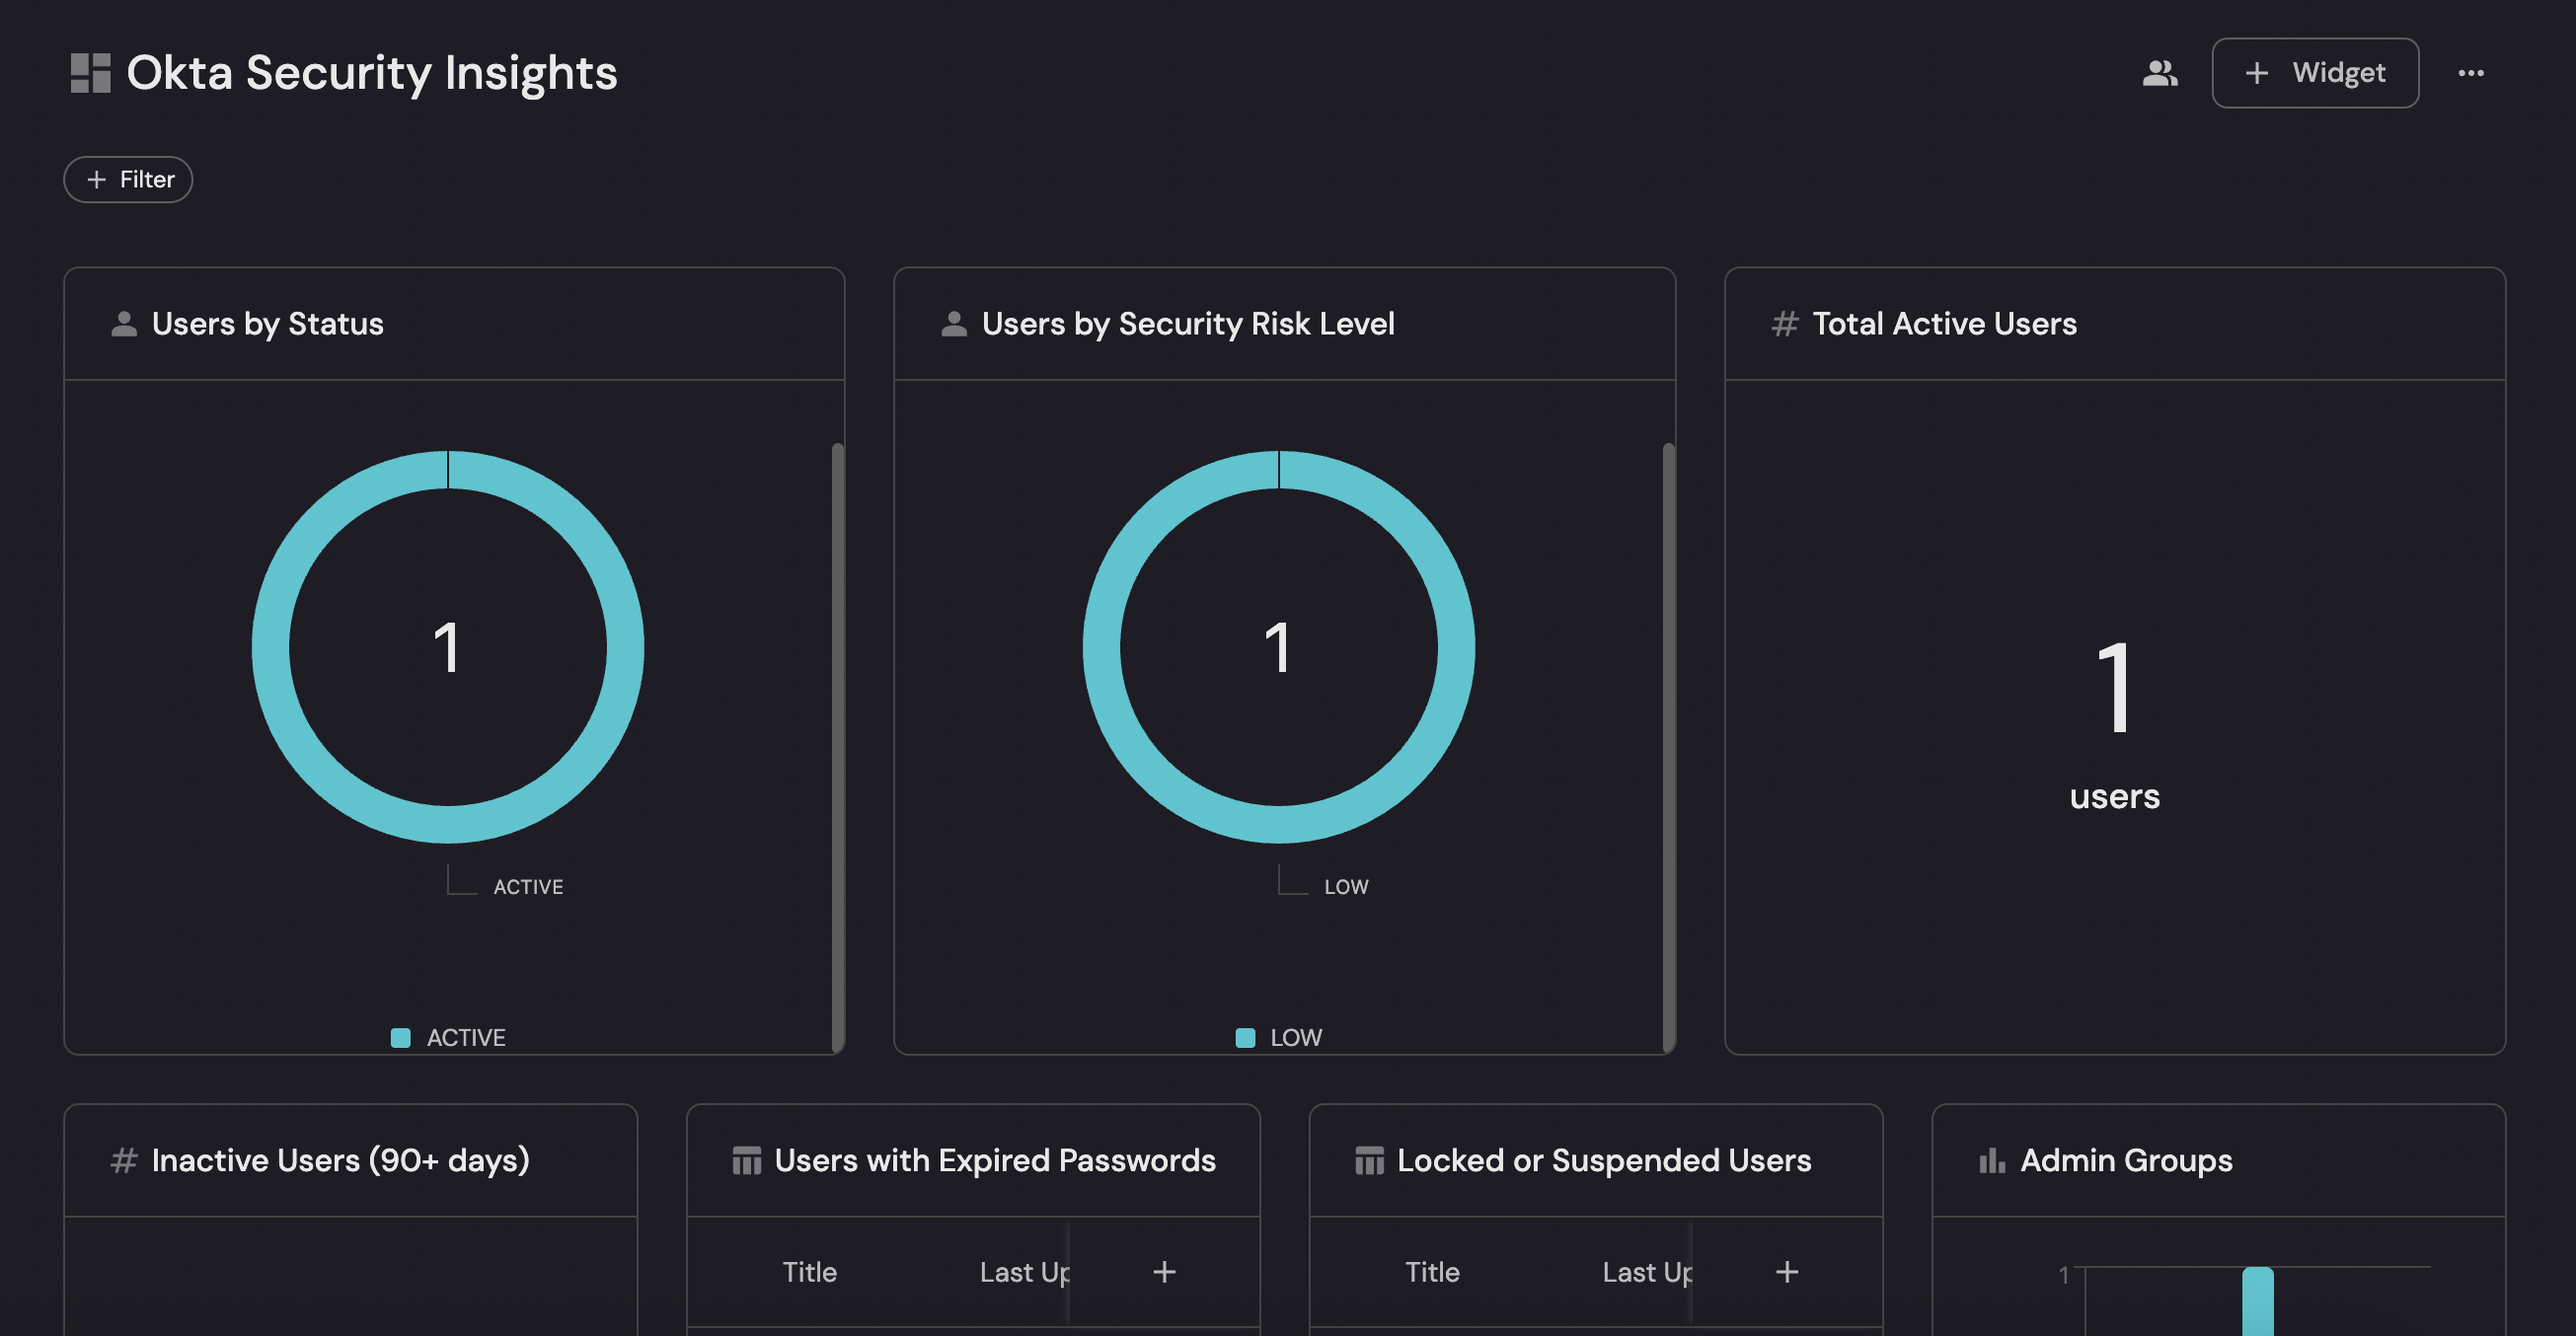
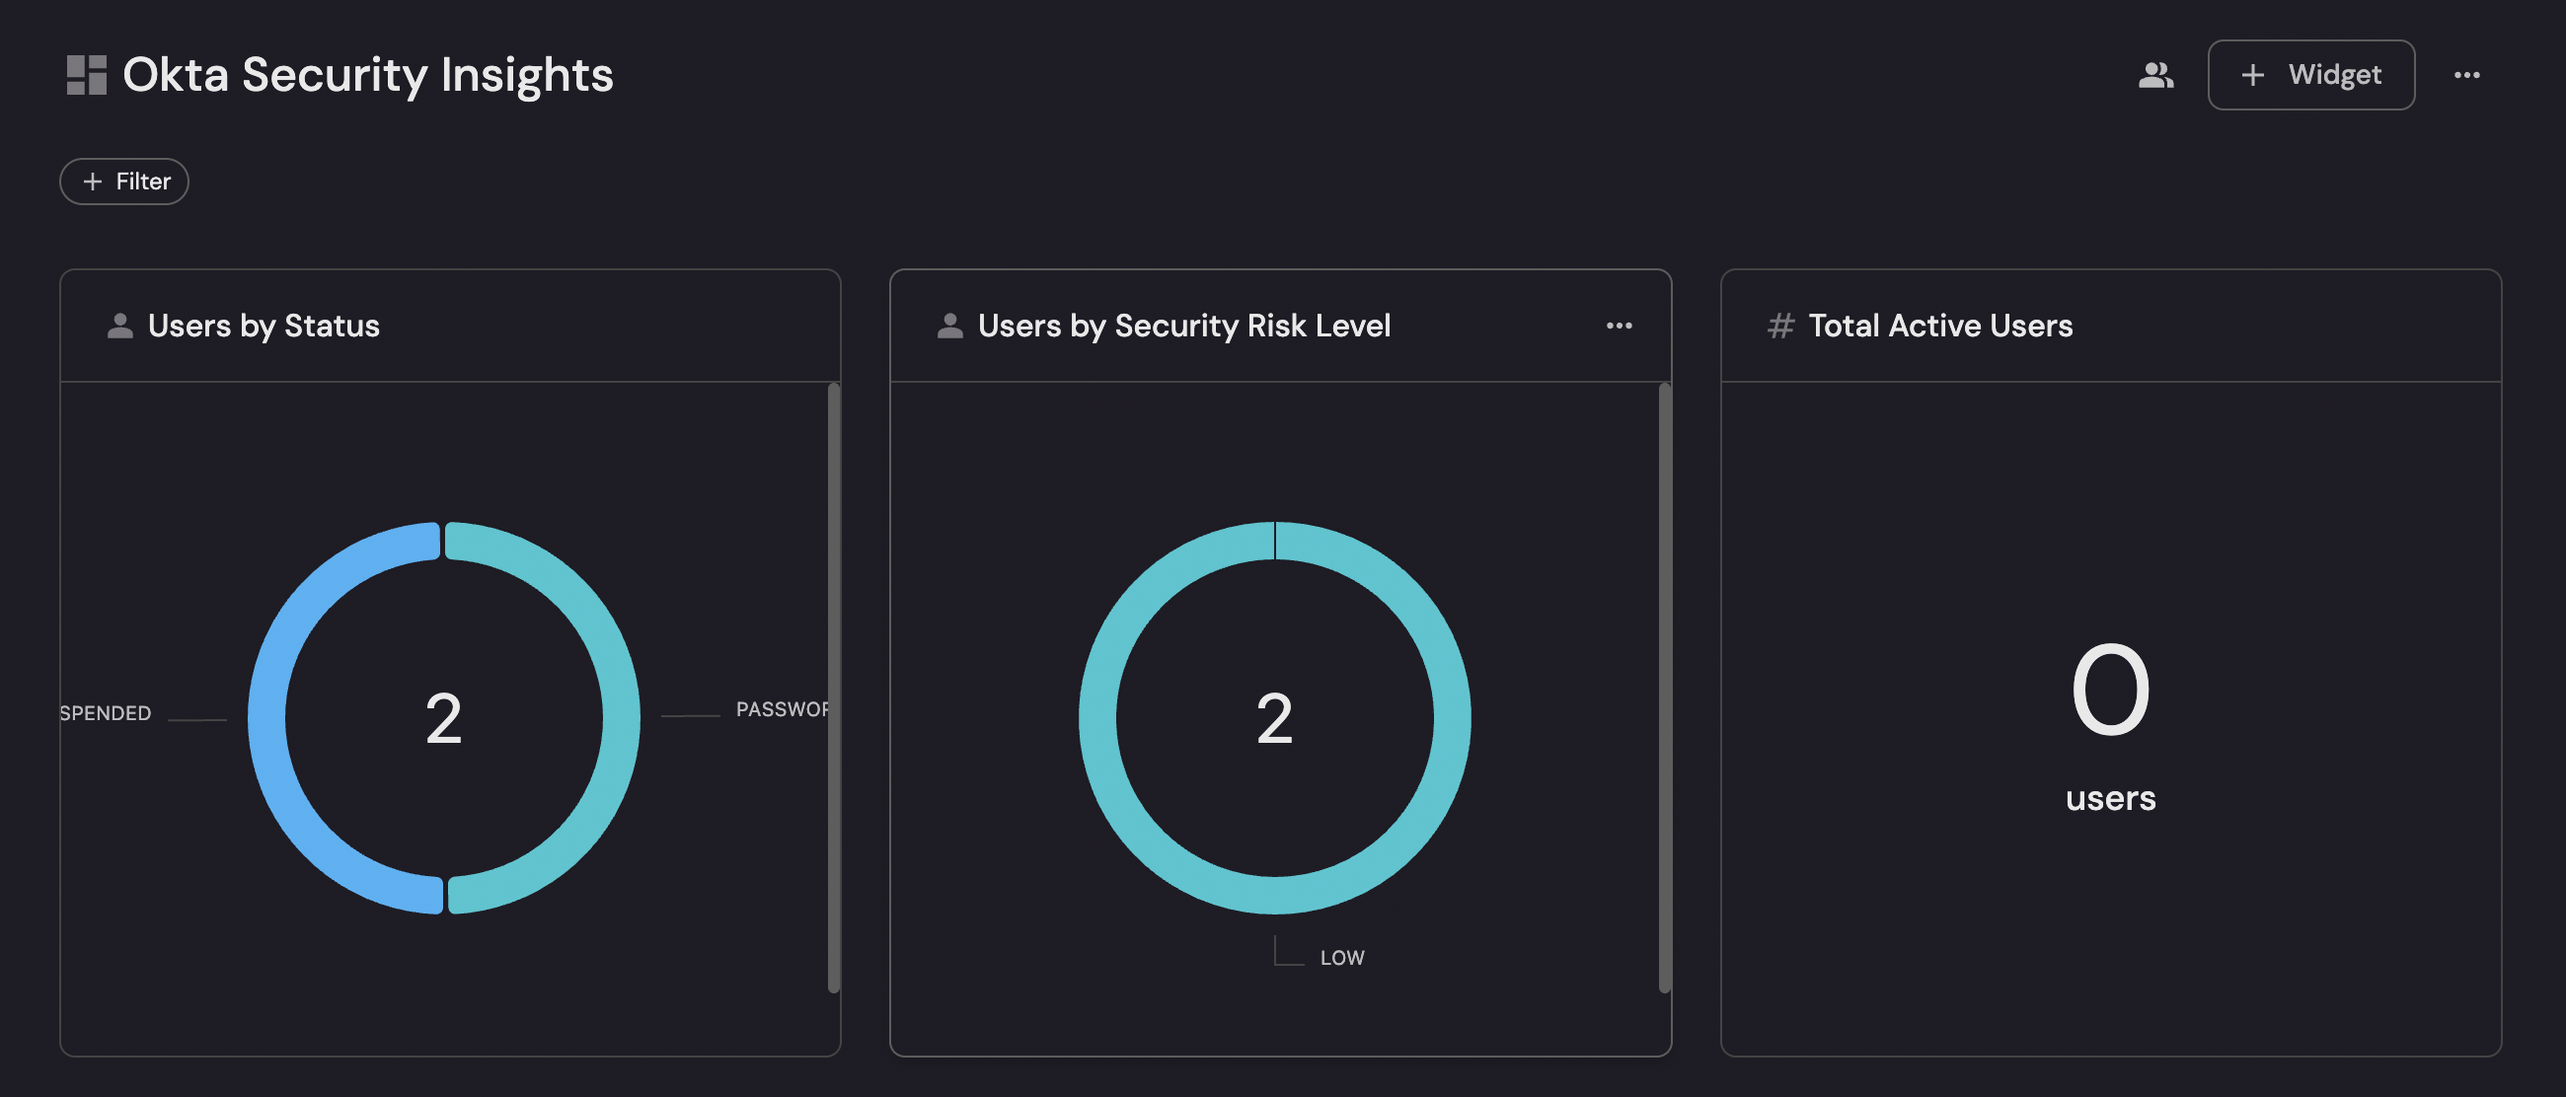
fix: Add two new dashboard screenshots and update main dashboard image in Okta guide

diff --git a/docs/guides/all/visualize-okta-security-insights.md b/docs/guides/all/visualize-okta-security-insights.md
@@ -9,6 +9,10 @@ This guide demonstrates how to build a security analytics dashboard for Okta ide
 
 <img src="/img/guides/okta-security-insights-dashboard.png" width="100%" border="1px" alt="Okta Security Insights Dashboard showing user status, security risk levels, and admin groups" />
 
+<img src="/img/guides/okta-security-insights-dashboard-2.png" width="100%" border="1px" alt="Okta Security Insights Dashboard showing groups by type, privileged groups, security risk distribution, and users with admin roles" />
+
+<img src="/img/guides/okta-security-insights-dashboard-3.png" width="100%" border="1px" alt="Okta Security Insights Dashboard showing inactive users, expired passwords, locked users, and admin groups" />
+
 ## Common use cases
 
 - Monitor admin role exposure and privileged access
